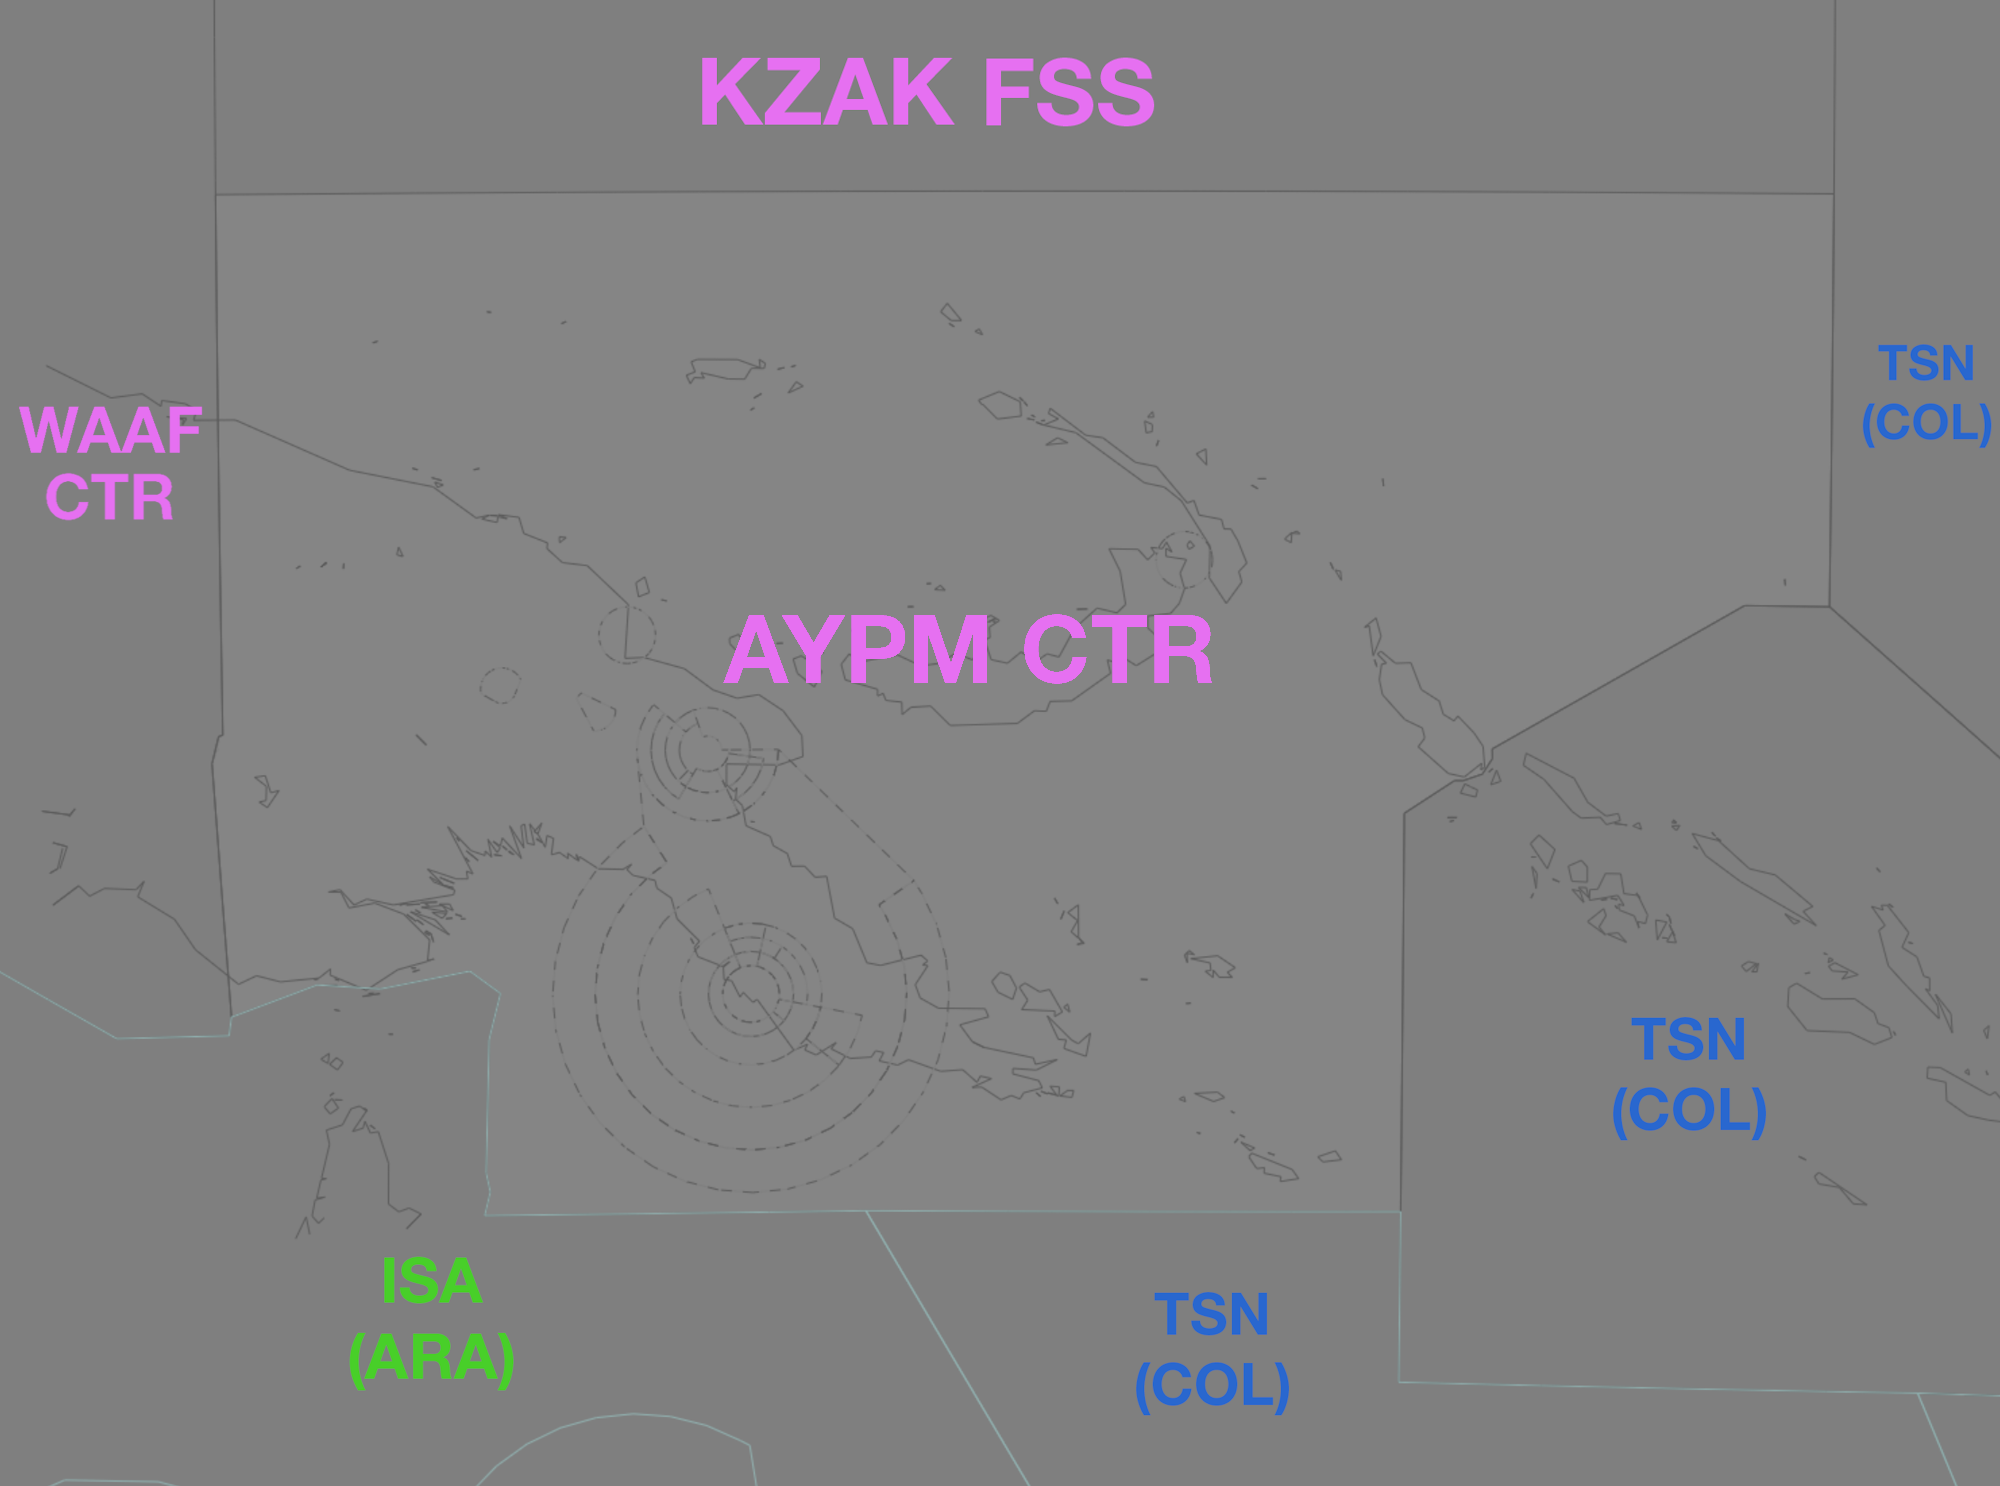
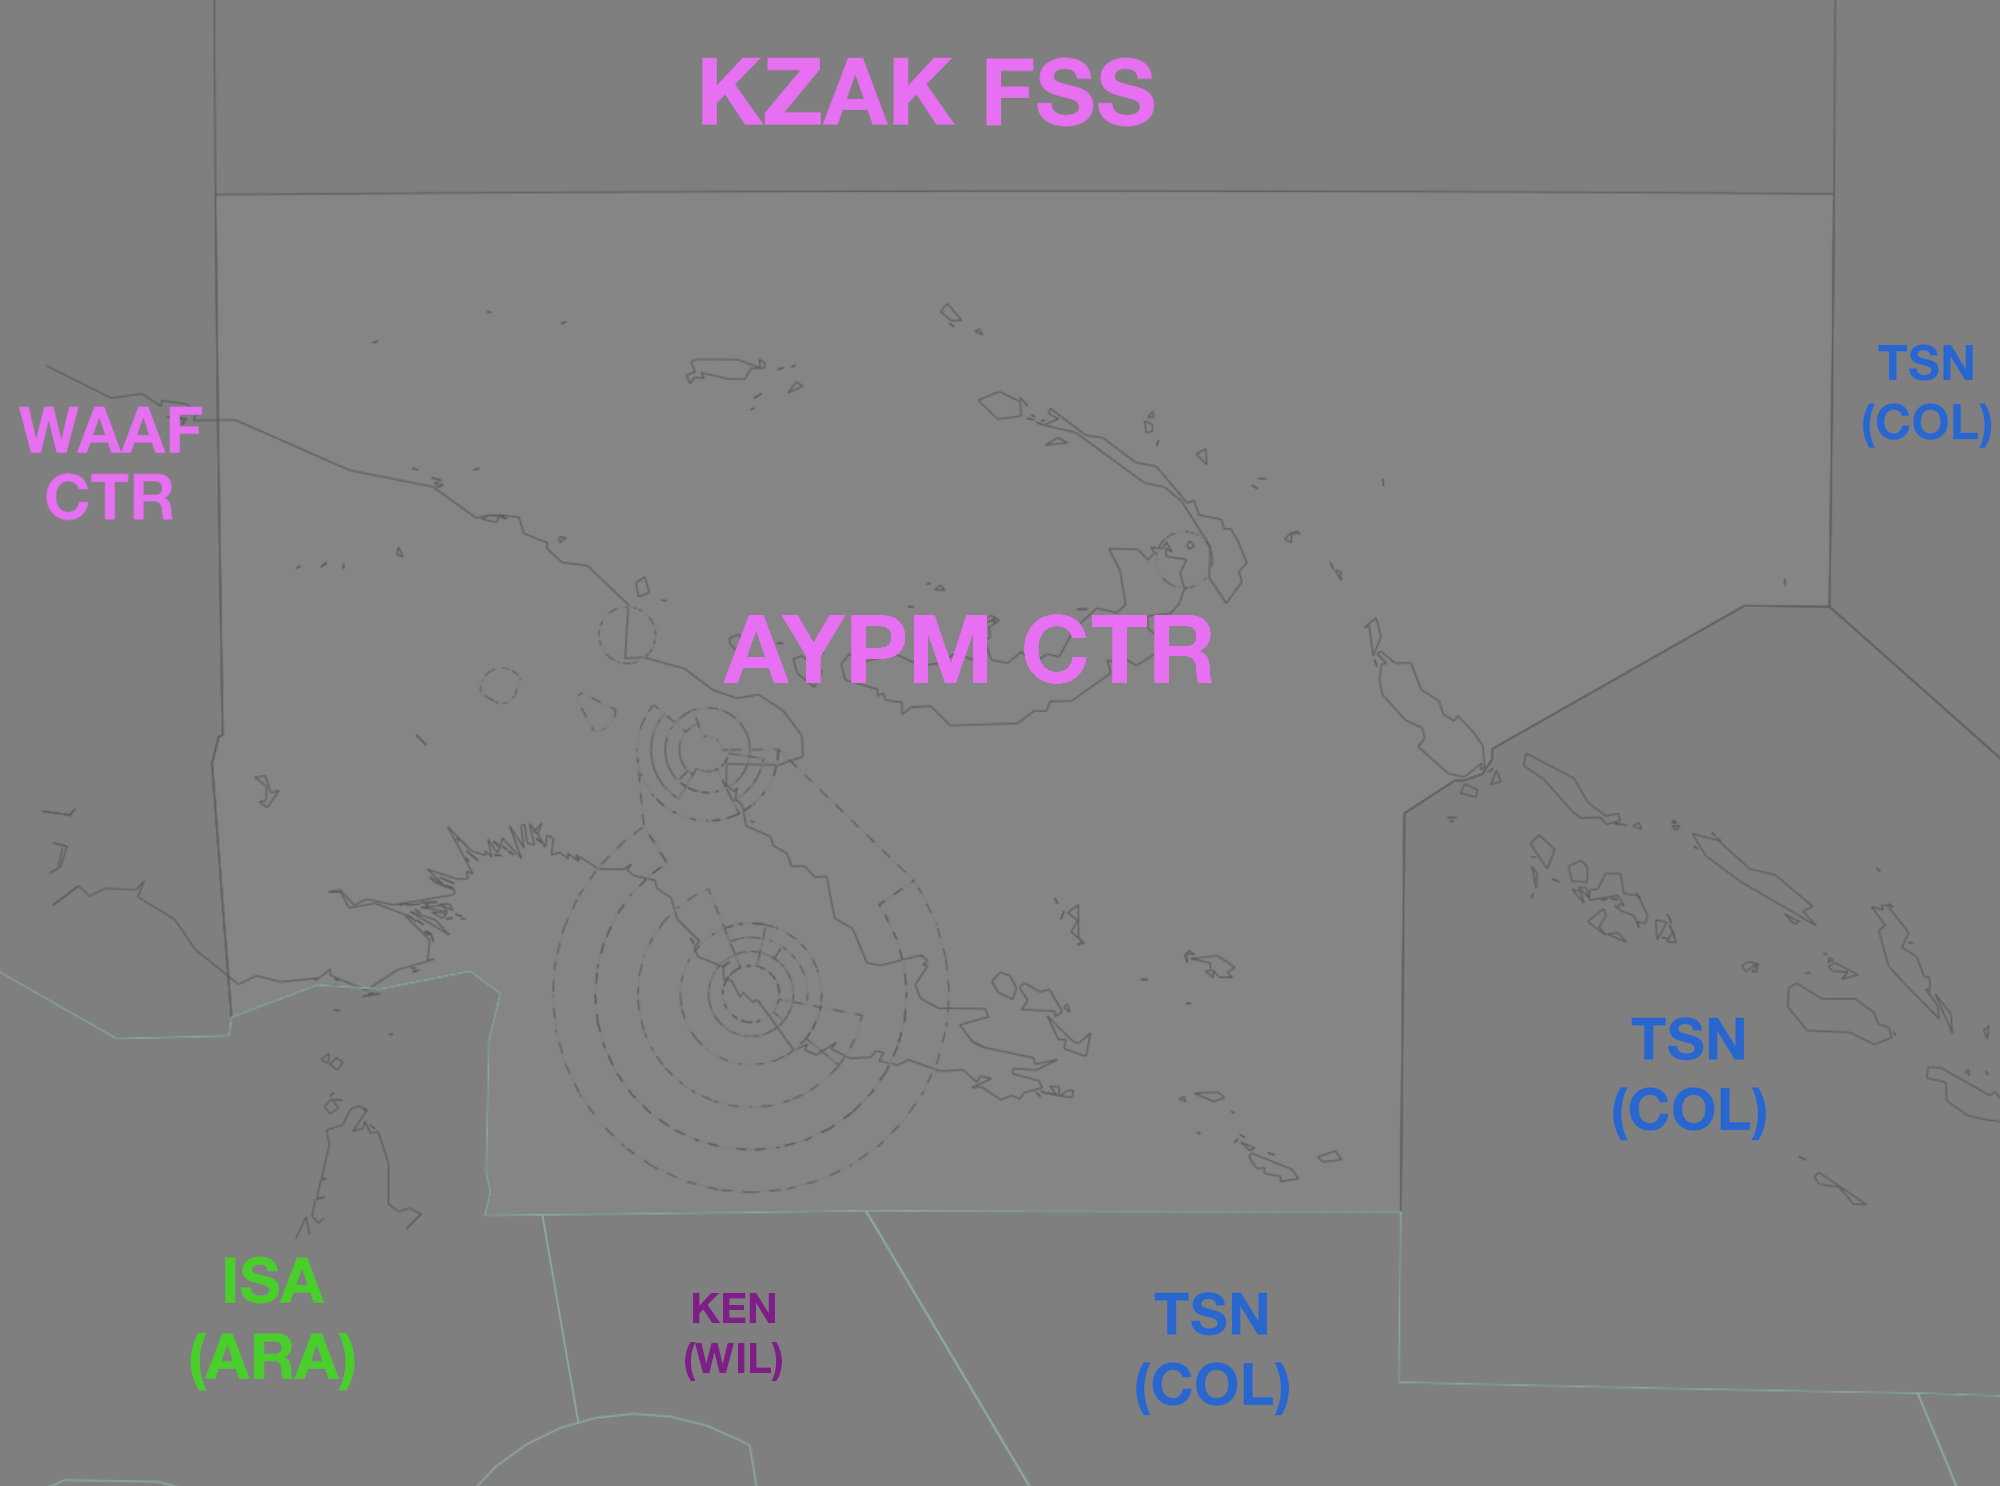
Adjust AYPM Diagram/Coordination to reflect 2504 Brisbane Sector Changes

Changed region(s): [[0.093, 0.8358, 0.279, 0.9287], [0.341, 0.8668, 0.403, 0.9287]]

diff --git a/docs/pacific/Papua-New-Guinea/Enroute.md b/docs/pacific/Papua-New-Guinea/Enroute.md
@@ -47,7 +47,7 @@ IFR aircraft may either be handed off to the ADC frequency by AYPM CTR, or held 
     <span class="hotline">**AYMH ADC** -> **AYPM CTR**</span>: "DEF, No reported traffic, no frequency requirements."  
     AYPM CTR will put *"AYMH NFR"* in the label data, and the aircraft will remain on the ENR frequency.
 
-### International (ARA)
+### International (ISA(ARA)/KEN(WIL))
 As per [Standard coordination procedures](../../controller-skills/coordination/#pacific-units), Voiceless, no changes to route or CFL within **15 mins** to boundary.
     
 ### Pacific Oceanic (TSN(COL)/KZAK)
